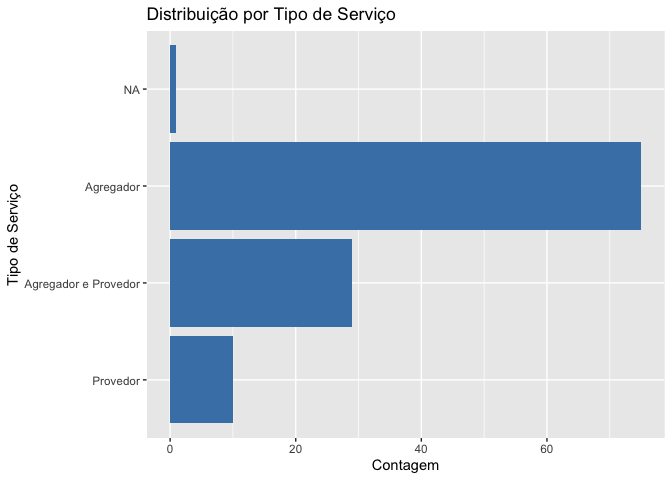
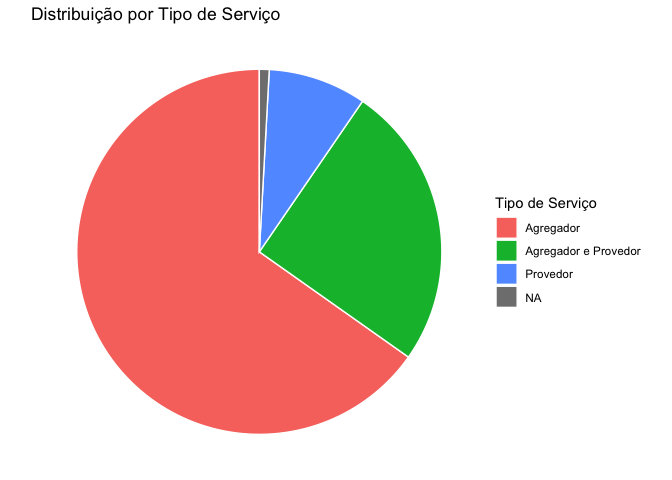
Pie Chart

diff --git a/README.html b/README.html
@@ -356,7 +356,7 @@ display: none;
 <h1>2025_INPO_RelatorioDados</h1>
 <p>Levantamento de Bases de Dados para o Oceano Atlântico Sul e
 Tropical</p>
-<p><a href="https://github.com/anacarolvaz/2025_INPO_RelatorioDados/Relatorio/Relatorio.md" class="uri">https://github.com/anacarolvaz/2025_INPO_RelatorioDados/Relatorio/Relatorio.</a>html</p>
+<p><a href="https://github.com/anacarolvaz/2025_INPO_RelatorioDados/blob/main/Relatorio/Relatorio.md" class="uri">Relatorio Aqui</a></p>
 </div>
 
 

diff --git a/Relatorio/Relatorio.md b/Relatorio/Relatorio.md
@@ -161,12 +161,13 @@ dados_long <- dados |>
 ### Distribuição por Tipo de Serviço
 
 ``` r
-dados |> 
-  count(tipo_de_servico, sort = TRUE) |> 
-  ggplot(aes(x = reorder(tipo_de_servico, n), y = n)) +
-  geom_col(fill = "steelblue") +
-  coord_flip() +
-  labs(x = "Tipo de Serviço", y = "Contagem", title = "Distribuição por Tipo de Serviço")
+dados %>%
+  count(tipo_de_servico, sort = TRUE) %>%
+  ggplot(aes(x = "", y = n, fill = tipo_de_servico)) +
+  geom_col(width = 1, color = "white") +
+  coord_polar(theta = "y") +
+  labs(fill = "Tipo de Serviço", title = "Distribuição por Tipo de Serviço") +
+  theme_void()
 ```
 
 ![](Relatorio_files/figure-commonmark/unnamed-chunk-2-1.png)

diff --git a/README.md b/README.md
@@ -2,4 +2,4 @@
 
 Levantamento de Bases de Dados para o Oceano Atlântico Sul e Tropical
 
-[https://github.com/anacarolvaz/2025_INPO_RelatorioDados/Relatorio/Relatorio.](https://github.com/anacarolvaz/2025_INPO_RelatorioDados/Relatorio/Relatorio.md){.uri}html
+[Relatorio Aqui](https://github.com/anacarolvaz/2025_INPO_RelatorioDados/blob/main/Relatorio/Relatorio.md){.uri}
